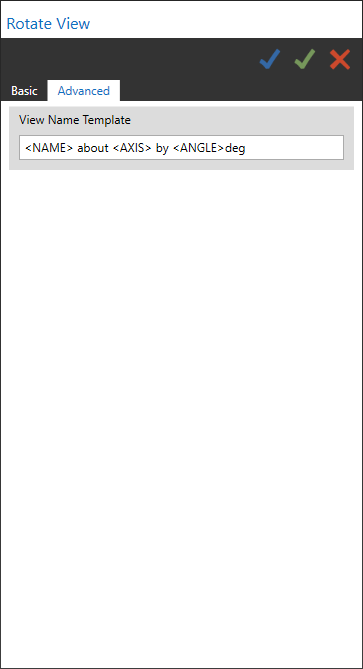
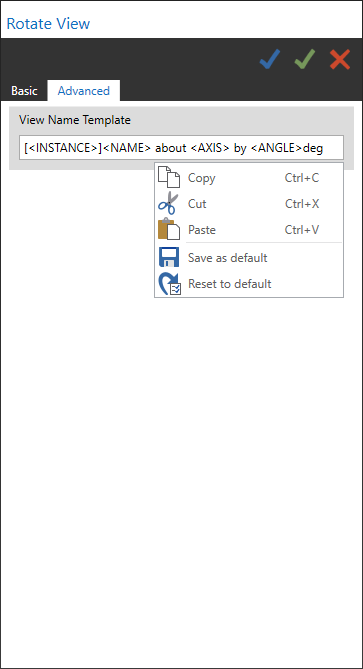
Added the ability to save a view name template as default Added the ability reset the view name template to default Added new view name template tag, <INSTANCE>

Changed region(s): [[0.0606, 0.2093, 0.9697, 0.4484], [0.7879, 0.299, 0.8788, 0.3587]]

diff --git a/RotatedViews/Views/MainView.xaml b/RotatedViews/Views/MainView.xaml
@@ -479,19 +479,65 @@
                         <TextBlock Text="{x:Static resources:UIStrings.ViewNameLabel}"
                                    Margin="10,5,10,5"
                                    Foreground="Black"/>
-                        <TextBox x:Name="ViewNameTemplateTextBox"
-                                 Grid.Row="0"
-                                 Grid.Column="1"
-                                 Margin="10,2.5,10,10"
-                                 Height="25"
-                                 VerticalContentAlignment="Center"
-                                 GotFocus="TextBox_GotFocus">
-                            <TextBox.Text>
-                                <Binding Path="ViewNameTemplate"
-                                         UpdateSourceTrigger="PropertyChanged">
-                                </Binding>
-                            </TextBox.Text>
-                        </TextBox>
+                        
+                        <DockPanel Margin="10,2.5,10,10"
+                                   LastChildFill="True">
+                          
+                            <TextBox x:Name="ViewNameTemplateTextBox"
+                                     Grid.Row="0"
+                                     Grid.Column="1"                                 
+                                     Height="25"
+                                     DockPanel.Dock="Left"
+                                     VerticalContentAlignment="Center"
+                                     GotFocus="TextBox_GotFocus">
+                                <TextBox.Text>
+                                    <Binding Path="ViewNameTemplate"
+                                             UpdateSourceTrigger="PropertyChanged">
+                                    </Binding>
+                                </TextBox.Text>
+                                <TextBox.ContextMenu>
+                                    <ContextMenu>
+                                        <MenuItem Command="ApplicationCommands.Copy">
+                                            <MenuItem.Icon>
+                                                <Image Source="Icons/Copy24.png"/>
+                                            </MenuItem.Icon>
+                                        </MenuItem>
+                                                                          
+                                        <MenuItem Command="ApplicationCommands.Cut">
+                                            <MenuItem.Icon>
+                                                <Image Source="Icons/Cut24.png"/>
+                                            </MenuItem.Icon>
+                                        </MenuItem>
+                                        
+                                        <MenuItem Command="ApplicationCommands.Paste">
+                                            <MenuItem.Icon>
+                                                <Image Source="Icons/Paste24.png"/>
+                                            </MenuItem.Icon>
+                                        </MenuItem>
+                                        
+                                        <Separator/>
+
+                                        <MenuItem Header="{x:Static resources:UIStrings.SaveAsDefaultHeader}"
+                                                  Command="{Binding SaveCommand}">
+                                            <MenuItem.Icon>
+                                                <Image Source="Icons/Save24.png"/>
+                                            </MenuItem.Icon>
+                                        </MenuItem>
+
+                                        <MenuItem Header="{x:Static resources:UIStrings.ResetToDefaultHeader}"
+                                                  Command="{Binding ResetCommand}">
+                                            <MenuItem.Icon>
+                                                <Image Source="Icons/Reset24.png"/>
+                                            </MenuItem.Icon>
+                                        </MenuItem>
+                                        
+                                    </ContextMenu>
+
+                                </TextBox.ContextMenu>
+                                
+                            </TextBox>
+
+                        </DockPanel>
                     </StackPanel>
                     
                 </Grid>

diff --git a/RotatedViews/ViewModels/MainViewViewModel.cs b/RotatedViews/ViewModels/MainViewViewModel.cs
@@ -22,6 +22,8 @@
 
         private readonly IViewService viewService;
 
+        private readonly ISettingsService settingsService;
+
         private List<MCView> views;
 
         private MCView selectedView;
@@ -114,15 +116,17 @@
 
         #region Construction
 
-        public MainViewViewModel(IMastercamService mastercamService, IViewService viewService)
+        public MainViewViewModel(IMastercamService mastercamService, IViewService viewService, ISettingsService settingsService)
         {
             this.mastercamService = mastercamService;
             this.viewService = viewService;
+            this.settingsService = settingsService;
 
             this.ApplyCommand = new DelegateCommand(OnApplyCommand);
             this.OkCommand = new DelegateCommand(OnOkCommand);
             this.CancelCommand = new DelegateCommand(OnCancelCommand);
-            this.RefreshCommand = new DelegateCommand(OnRefreshCommand);
+            this.SaveCommand = new DelegateCommand(OnSaveCommand);
+            this.ResetCommand = new DelegateCommand(OnResetCommand);
 
             RefreshViewList(true);
 
@@ -133,7 +137,7 @@
 
             this.SelectedDistanceType = DistanceType.AngleBetween;
 
-            this.ViewNameTemplate = "<NAME> about <AXIS> by <ANGLE>deg";
+            this.ViewNameTemplate = settingsService.GetDefaultViewNameTemplate();
         }
 
         #endregion
@@ -146,7 +150,9 @@
 
         public ICommand CancelCommand { get; }
 
-        public ICommand RefreshCommand { get; }
+        public ICommand SaveCommand { get; }
+
+        public ICommand ResetCommand { get; }
 
         #endregion
 
@@ -185,9 +191,14 @@
             view?.Close();
         }
 
-        private void OnRefreshCommand(object parameter)
+        private void OnSaveCommand(object parameter)
         {
-            RefreshViewList();
+            settingsService.SaveViewNameTemplateAsDefault(ViewNameTemplate);
+        }
+
+        private void OnResetCommand(object parameter)
+        {
+            ViewNameTemplate = settingsService.GetDefaultViewNameTemplate();
         }
 
         private void RefreshViewList(bool isUsingConstructionView = false)

diff --git a/RotatedViews/Services/ViewService.cs b/RotatedViews/Services/ViewService.cs
@@ -68,6 +68,7 @@ namespace RotatedViews.Services
                     ViewName = BuildViewNameFromTemplate(view.ViewName,
                                                          rotationAxis.Label,
                                                          angle.ToString(),
+                                                         instance.ToString(),
                                                          viewNameTemplate),
 
                     ViewOrigin = view.ViewOrigin,
@@ -82,7 +83,7 @@ namespace RotatedViews.Services
             }
         }
 
-        private string BuildViewNameFromTemplate(string viewName, string axisLabel, string angle, string template)
+        private string BuildViewNameFromTemplate(string viewName, string axisLabel, string angle, string instance,  string template)
         {
             var name = string.Empty;
 
@@ -90,7 +91,8 @@ namespace RotatedViews.Services
             {
                 {@"<NAME>", viewName},
                 {@"<AXIS>", axisLabel},
-                {@"<ANGLE>", angle}
+                {@"<ANGLE>", angle},
+                {@"<INSTANCE>", instance}
             };
 
             var regex = new Regex(string.Join("|", replacementMap.Keys));

diff --git a/RotatedViews/Resources/UIStrings.Designer.cs b/RotatedViews/Resources/UIStrings.Designer.cs
@@ -196,6 +196,15 @@ namespace RotatedViews.Resources {
         }
         
         /// <summary>
+        ///   Looks up a localized string similar to Reset to default.
+        /// </summary>
+        public static string ResetToDefaultHeader {
+            get {
+                return ResourceManager.GetString("ResetToDefaultHeader", resourceCulture);
+            }
+        }
+        
+        /// <summary>
         ///   Looks up a localized string similar to Rotation Axis:.
         /// </summary>
         public static string RotationAxisLabel {
@@ -228,6 +237,15 @@ namespace RotatedViews.Resources {
         public static string RotationAxisZLabel {
             get {
                 return ResourceManager.GetString("RotationAxisZLabel", resourceCulture);
+            }
+        }
+        
+        /// <summary>
+        ///   Looks up a localized string similar to Save as default.
+        /// </summary>
+        public static string SaveAsDefaultHeader {
+            get {
+                return ResourceManager.GetString("SaveAsDefaultHeader", resourceCulture);
             }
         }
         

diff --git a/RotatedViews/Properties/AssemblyInfo.cs b/RotatedViews/Properties/AssemblyInfo.cs
@@ -8,7 +8,7 @@ using System.Runtime.InteropServices;
 [assembly: AssemblyTitle("RotatedViews")]
 [assembly: AssemblyDescription("A Simple add-in to rotate views")]
 [assembly: AssemblyConfiguration("")]
-[assembly: AssemblyCompany("Zaffin_D")]
+[assembly: AssemblyCompany("Zaffin_D; www.zaffind.com")]
 [assembly: AssemblyProduct("Rotate View")]
 [assembly: AssemblyCopyright("©2021 Zaffin_D")]
 [assembly: AssemblyTrademark("")]
@@ -32,5 +32,5 @@ using System.Runtime.InteropServices;
 // You can specify all the values or you can default the Build and Revision Numbers
 // by using the '*' as shown below:
 // [assembly: AssemblyVersion("1.0.*")]
-[assembly: AssemblyVersion("1.0.1.0")]
-[assembly: AssemblyFileVersion("1.0.1.0")]
+[assembly: AssemblyVersion("1.0.5.0")]
+[assembly: AssemblyFileVersion("1.0.5.0")]

diff --git a/RotatedViews/Services/SettingsService.cs b/RotatedViews/Services/SettingsService.cs
@@ -1,0 +1,28 @@
+using System;
+using System.Collections.Generic;
+using System.Linq;
+using System.Text;
+using System.Threading.Tasks;
+
+namespace RotatedViews.Services
+{
+    public class SettingsService : ISettingsService
+    {
+        public string GetDefaultViewNameTemplate()
+        {
+            return Properties.Settings.Default.defaultViewNameTemplate;
+        }
+
+        public void SaveViewNameTemplateAsDefault(string viewNameTemplate)
+        {
+            Properties.Settings.Default.defaultViewNameTemplate = viewNameTemplate;
+            Save();
+        }
+
+        private void Save()
+        {
+            Properties.Settings.Default.Save();
+
+        }
+    }
+}

diff --git a/RotatedViews/Properties/Settings.Designer.cs b/RotatedViews/Properties/Settings.Designer.cs
@@ -22,5 +22,17 @@ namespace RotatedViews.Properties {
                 return defaultInstance;
             }
         }
+        
+        [global::System.Configuration.UserScopedSettingAttribute()]
+        [global::System.Diagnostics.DebuggerNonUserCodeAttribute()]
+        [global::System.Configuration.DefaultSettingValueAttribute("[<INSTANCE>]<NAME> about <AXIS> by <ANGLE>deg")]
+        public string defaultViewNameTemplate {
+            get {
+                return ((string)(this["defaultViewNameTemplate"]));
+            }
+            set {
+                this["defaultViewNameTemplate"] = value;
+            }
+        }
     }
 }

diff --git a/RotatedViews/Views/MainView.xaml.cs b/RotatedViews/Views/MainView.xaml.cs
@@ -15,7 +15,9 @@ namespace RotatedViews.Views
         public MainView()
         {
             InitializeComponent();
-            this.DataContext = new MainViewViewModel(new MastercamService(), new ViewService());
+            this.DataContext = new MainViewViewModel(new MastercamService(), 
+                                                     new ViewService(), 
+                                                     new SettingsService());
         }
 
         private void TitleLabel_MouseDown(object sender, MouseButtonEventArgs e)

diff --git a/RotatedViews/Services/ISettingsService.cs b/RotatedViews/Services/ISettingsService.cs
@@ -1,0 +1,15 @@
+using System;
+using System.Collections.Generic;
+using System.Linq;
+using System.Text;
+using System.Threading.Tasks;
+
+namespace RotatedViews.Services
+{
+    public interface ISettingsService
+    {
+        string GetDefaultViewNameTemplate();
+
+        void SaveViewNameTemplateAsDefault(string viewNameTemplate);
+    }
+}
